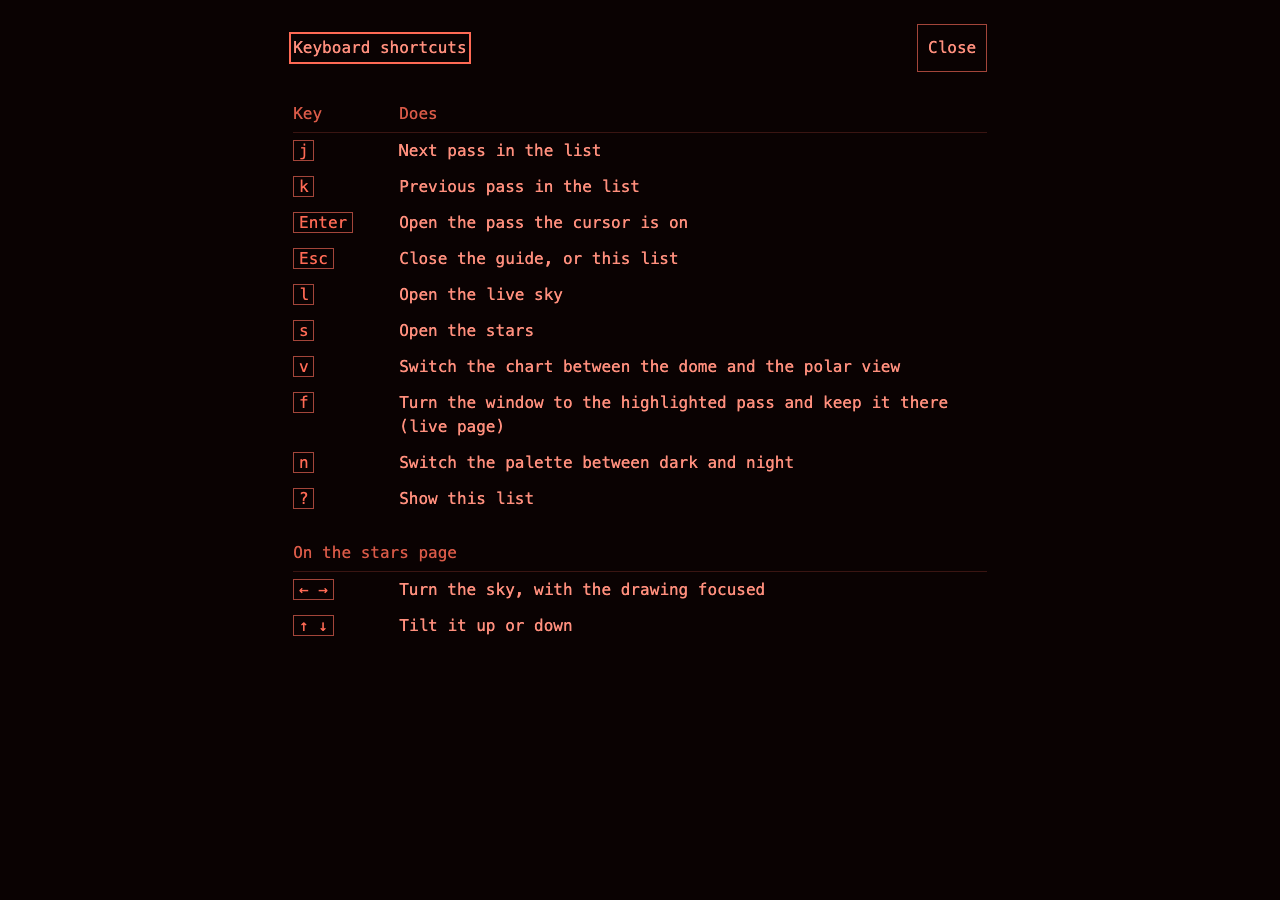
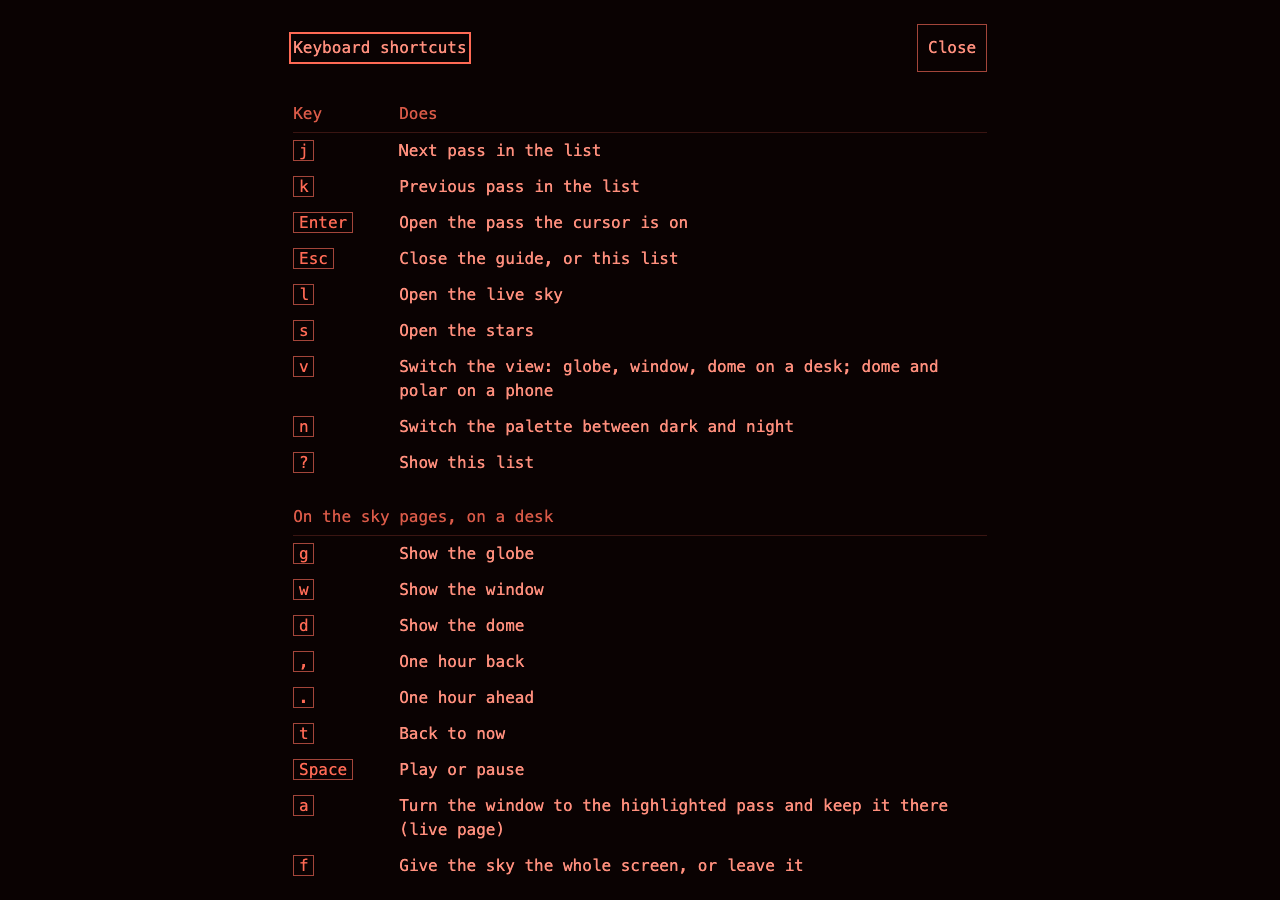
R189: layout listener in an effect; i18n keys snapshot; overlay captures
FR-WIDE-9; D-1126.

diff --git a/src/ui/components/sky/SkyViewLayout.tsx b/src/ui/components/sky/SkyViewLayout.tsx
@@ -3,9 +3,8 @@ import { createPortal } from 'react-dom';
 import { HIT_RADIUS_PX } from '../guide/skychart/window/starGlyphs';
 import { useT } from '../../../i18n/useT';
 import { useLayoutMode } from '../../hooks/useLayoutMode';
-import { useShortcuts } from '../../hooks/useShortcuts';
 import { enterFullscreen, exitFullscreen, fullscreenElement, fullscreenSupported } from '../../../lib/fullscreen';
-import { skyShortcuts, type SkyKeyActions } from '../../../lib/shortcuts';
+import { installShortcuts, skyShortcuts, type ShortcutActions, type SkyKeyActions } from '../../../lib/shortcuts';
 import type { EpochMs } from '../../../model';
 import { TimeReadout } from '../live/TimeReadout';
 import { TextButton } from '../primitives/TextButton';
@@ -290,11 +289,22 @@ export function SkyViewLayout({ describedBy, labelledBy, fill = false, readoutIn
   }, [full]);
   /*
    * R189 (FR-WIDE-9, D-1102): the page's sky keys and `f`, one listener while the layout is the desk's. The shortcuts
-   * overlay makes the page inert (D-73's "overlay first"), and then no key here is the page's.
+   * overlay makes the page inert (D-73's "overlay first"), and then no key here is the page's. The listener is the
+   * table's own (`installShortcuts`), installed once per shape and reading the page's latest actions through a ref.
    */
-  const rows = keys === undefined ? { full: toggleFull } : skyShortcuts(keys, toggleFull, () => document.activeElement);
-  const live = Object.fromEntries(Object.entries(rows).map(([id, run]) => [id, () => rootRef.current?.closest('[inert]') == null && run()])) as typeof rows;
-  useShortcuts(live, shape === 'rail');
+  const keysRef = useRef(keys);
+  useLayoutEffect(() => {
+    keysRef.current = keys;
+  });
+  useEffect(() => {
+    if (shape !== 'rail') return;
+    return installShortcuts(document, () => {
+      const page = keysRef.current;
+      const rows: ShortcutActions = page === undefined ? { full: toggleFull } : skyShortcuts(page, toggleFull, () => document.activeElement);
+      const inert = rootRef.current?.closest('[inert]') != null;
+      return Object.fromEntries(Object.entries(rows).map(([id, run]) => [id, () => !inert && run()]));
+    });
+  }, [shape, toggleFull]);
 
   const given =(name: SkyViewSlotName): boolean => {
     const node = slots[name];

diff --git a/src/lib/shortcuts.ts b/src/lib/shortcuts.ts
@@ -33,7 +33,7 @@ export type ShortcutId = 'next' | 'previous' | 'open' | 'close' | 'live' | 'star
  * `Space` plays, `a` faces the pass (FR-SKY-13's key, moved from `f`), `f` is full screen (FR-WIDE-10). They run where
  * a `SkyViewLayout` in its wide form is mounted (`skyShortcuts`); the app's own listener has no action for them.
  */
-export type SkyShortcutId = 'globe' | 'window' | 'dome' | 'back' | 'ahead' | 'now' | 'play' | 'face' | 'full';
+type SkyShortcutId ='globe' | 'window' | 'dome' | 'back' | 'ahead' | 'now' | 'play' | 'face' | 'full';
 
 /** The ids the app's listener runs (`App.tsx`): every row but the sky pages'. */
 export type AppShortcutId = Exclude<ShortcutId, SkyShortcutId>;
